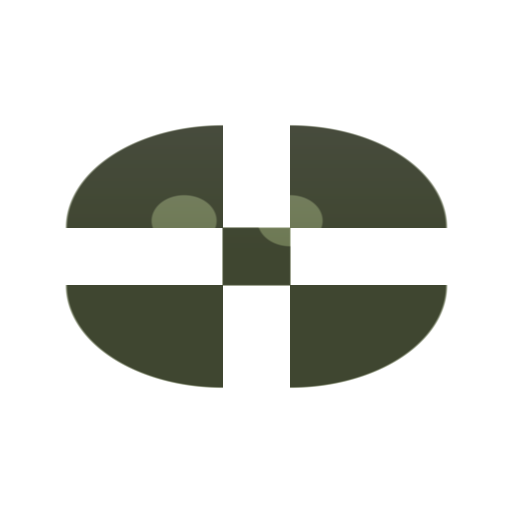
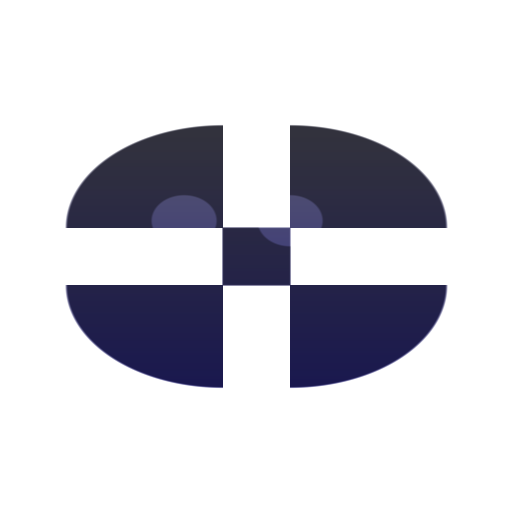
1.0

Changed region(s): [[0.125, 0.25, 0.875, 0.7812]]

diff --git a/scripts/cdp.js b/scripts/cdp.js
@@ -33,10 +33,19 @@ async function connect(match) {
       pending.delete(m.id);
     }
   };
-  const send = (method, params = {}) =>
+  const send = (method, params = {}, timeoutMs = 15000) =>
     new Promise((resolve) => {
       const i = ++id;
-      pending.set(i, resolve);
+      const timer = setTimeout(() => {
+        if (pending.has(i)) {
+          pending.delete(i);
+          resolve(null);
+        }
+      }, timeoutMs);
+      pending.set(i, (m) => {
+        clearTimeout(timer);
+        resolve(m);
+      });
       ws.send(JSON.stringify({ id: i, method, params }));
     });
   return { send, close: () => ws.close(), target: t };
@@ -70,7 +79,13 @@ async function main() {
         console.log(typeof v === "string" ? v : JSON.stringify(v, null, 2));
       }
     } else if (flag === "--shot") {
-      const r = await c.send("Page.captureScreenshot", { format: "png", fromSurface: true });
+      // just ask the compositor for whatever it last drew; if it never drew a
+      // frame, fall back to a plain screenshot instead of hanging forever
+      let r = await c.send("Page.captureScreenshot", { format: "png", fromSurface: true, captureBeyondViewport: false }, 3000);
+      if (!r || !r.result?.data) {
+        console.log("no frame captured — buddy window has nothing composited right now");
+        return;
+      }
       fs.writeFileSync(arg, Buffer.from(r.result.data, "base64"));
       console.log("wrote", arg);
     } else {

diff --git a/scripts/gen-icon.js b/scripts/gen-icon.js
@@ -65,10 +65,17 @@ const smooth = (e0, e1, x) => {
 };
 
 const COL = {
-  body: hex("#BACF8D"),
-  bodyLight: hex("#D3E0B4"),
+  bodyLight: hex("#9797B4"),
+  body: hex("#726FCF"),
+  bodyDark: hex("#4C47EA"),
   ink: hex("#000000"),
 };
+
+const lerp3 = (a, b, t) => [
+  Math.round(lerp(a[0], b[0], t)),
+  Math.round(lerp(a[1], b[1], t)),
+  Math.round(lerp(a[2], b[2], t)),
+];
 
 /** Draw with antialiased alpha onto an RGBA buffer ("over" composite). */
 function paint(buf, W, x, y, color, alpha) {
@@ -136,12 +143,12 @@ function draw(size) {
 
       const bodyA = roundRectAlpha(px, py, cx, cy, hw, hh, rx, ry, 1.2);
       if (bodyA > 0) {
-        const t = clamp((py - (cy - hh)) / (0.5 * H), 0, 1);
-        const col = [
-          Math.round(lerp(COL.bodyLight[0], COL.body[0], t)),
-          Math.round(lerp(COL.bodyLight[1], COL.body[1], t)),
-          Math.round(lerp(COL.bodyLight[2], COL.body[2], t)),
-        ];
+        // same ramp as the in-app bean: light crown → base → deep foot
+        const t = clamp((py - (cy - hh)) / H, 0, 1);
+        const col =
+          t < 0.5
+            ? lerp3(COL.bodyLight, COL.body, t / 0.5)
+            : lerp3(COL.body, COL.bodyDark, (t - 0.5) / 0.5);
         paint(buf, size, x, y, col, bodyA);
 
         for (const ex of eyeXs) {

diff --git a/src/renderer/buddy/buddy.css b/src/renderer/buddy/buddy.css
@@ -157,7 +157,7 @@ body.dragging .ball { cursor: grabbing; }
   right: -2px;
   display: flex;
   gap: 1px;
-  color: #8a9a72;
+  color: #9a9ac0;
   font-weight: 800;
   opacity: 0;
   z-index: 4;

diff --git a/README.md b/README.md
@@ -1,12 +1,13 @@
 # bobby
 
 A tiny bean who lives at the top of your screen. He looks like `art/booby.svg` (that's the
-artwork this build is based on: sage-green body, two dark oval eyes), watches your cursor with
+artwork this build is based on: grey-to-blue body ramp, two dark oval eyes), watches your cursor with
 his eyes, blinks, bobs, and talks back through a speech bubble.
 
-He has a real brain — your API key, your choice of provider — and hands: files, shell, web,
-clipboard, volume/brightness/media, notifications, and his own memory file. Nothing he does on
-your device happens without passing a consent gate first.
+He has a real brain — your API key, your choice of provider (OpenAI, Anthropic, OpenRouter, Groq,
+Mistral, Gemini, DeepSeek, xAI, Together, Perplexity, or your own local server) — and hands: files,
+shell, web, clipboard, volume/brightness/media, reminders, notifications, and his own memory file.
+Nothing he does on your device happens without passing a consent gate first.
 
 ```
 npm install
@@ -15,6 +16,10 @@ npm start
 
 On first run the settings window opens: pick a provider, set a key (or leave it empty for local
 Ollama), hit **Test**, save. Then double-click Bobby to open the chat.
+
+He'll also nap if you leave him alone for a few minutes (hover or poke to wake him), and you can
+ask him things like *"remind me to stretch in 20 minutes"* or *"how much disk space do I have
+left?"*.
 
 ---
 
@@ -62,9 +67,16 @@ Global shortcuts (also in the tray menu):
 
 - **Ollama (local)** — `http://localhost:11434/v1`, no key needed. `qwen2.5:0.5b` and
   `granite4:latest` work well; tools need a model that emits real tool calls.
-- **OpenAI** — any model, key required.
-- **Anthropic** — key required, streaming tool calls supported.
-- **Custom (OpenAI-compatible)** — LM Studio, llama.cpp, vLLM, whatever.
+- **LM Studio / llama.cpp / vLLM** — local presets, no key, just point them at the port.
+- **OpenAI**, **Anthropic** — key required.
+- **OpenRouter**, **Groq**, **Mistral**, **Google Gemini**, **DeepSeek**, **xAI**, **Together**,
+  **Perplexity** — cloud presets with a key.
+- **Custom (OpenAI-compatible)** / **Custom (Anthropic-compatible)** — anything else, including
+  proxies.
+
+The **list** button next to *Model* asks whichever provider you've picked for its model list
+(`/models`, Anthropic's `/v1/models`, or Ollama's `/api/tags`) using your saved key, and drops
+them into the datalist so you can pick instead of typing.
 
 Keys are stored with Electron's `safeStorage`. If the OS keyring isn't available (common on
 minimal Wayland boxes) it falls back to base64 with a `b64:` prefix — that's obfuscation, not
@@ -97,6 +109,8 @@ encryption. Treat `config.json` as containing a secret if you're on the fallback
 | system | `volume`, `brightness`, `media`, `clipboard` | Linux backends: `wpctl`, `brightnessctl`, `playerctl`, `wl-clipboard` |
 | apps | `notify`, `open_url` | `notify-send` |
 | memory | `read_notes`, `append_notes` | his own `notes.md`, always allowed |
+| time | `set_reminder`, `list_reminders`, `cancel_reminder` | fires a speech bubble + desktop notification; reminders persist across restarts |
+| machine | `system_info` | battery, memory, disk, CPU load, uptime (Node's `os` + `df`, so it's portable) |
 
 Linux is where this was built and tested. The file, shell, web and notes tools are
 cross-platform; the system tools are wired to Wayland/Linux commands and will fail cleanly
@@ -120,7 +134,7 @@ npm run icons
 ```
 
 `scripts/gen-icon.js` draws the bean from `art/booby.svg` (body proportions, eye geometry,
-palette `#BACF8D` / `#D3E0B4`, eyes at 42% black) into `assets/icon-*.png` with no image
+palette `#9797B4` → `#726FCF` → `#4C47EA`, eyes at 42% black) into `assets/icon-*.png` with no image
 libraries — just zlib.
 
 ## Developing / testing the running app
